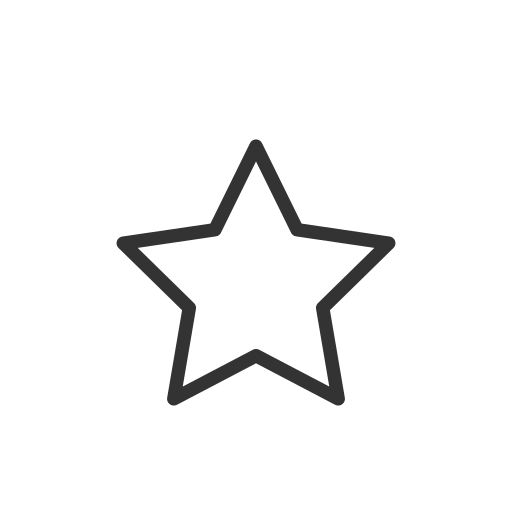
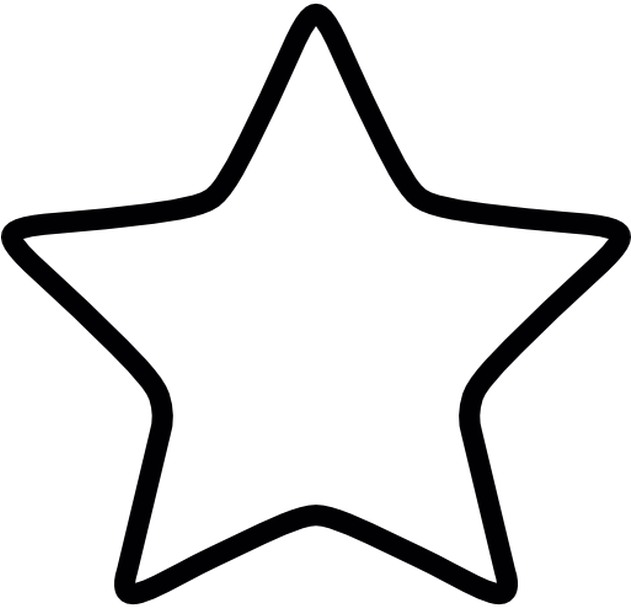
Fixed Bottom bar and updated star img

Changed region(s): [[0.0, 0.0, 1.0, 1.0], [0.2188, 0.2812, 0.7812, 0.8125]]

diff --git a/public/html/clubs.html b/public/html/clubs.html
@@ -38,6 +38,30 @@
 
 <body>
   <header>
+    <section>
+    <nav>
+		<div id="nav-tabs">
+			<a id="nav-tabs__home" href="/">
+				<div>
+					<img class="svg-convert" src="../img/gradcap.svg" alt="Home" width="34" height="34">
+					<span>Home</span>
+				</div>
+			</a>
+			<a id="nav-tabs__clubs" href="/clubs" class="selected">
+				<div>
+					<img class="svg-convert" src="../img/clubs.svg" alt="Clubs" width="34" height="34">
+					<span>Clubs</span>
+				</div>
+			</a>
+			<a id="nav-tabs__cal" href="/calendar">
+				<div>
+					<img class="svg-convert" src="../img/calendar.svg" alt="Calendar" width="34" height="34">
+					<span>Calendar</span>
+				</div>
+			</a>
+		</div>
+	</nav>
+  </section>
     <div class="clubs-title">Clubs</div>
     <a href="/info">
       <div>

diff --git a/public/css/club.css b/public/css/club.css
@@ -372,6 +372,7 @@ body {
 /*Search Bar*/
 .blur {
     margin-top: 20vh !important;
+    padding-bottom: 15vh !important;
     padding-top: 0 !important;
 }
 
@@ -422,6 +423,10 @@ body {
 
   #MainFilterIcon {
     filter: invert(100%);
+}
+
+#favoriteFilterIcon {
+    filter: hue-rotate(180deg);
 }
 
 #filterOverlay {
